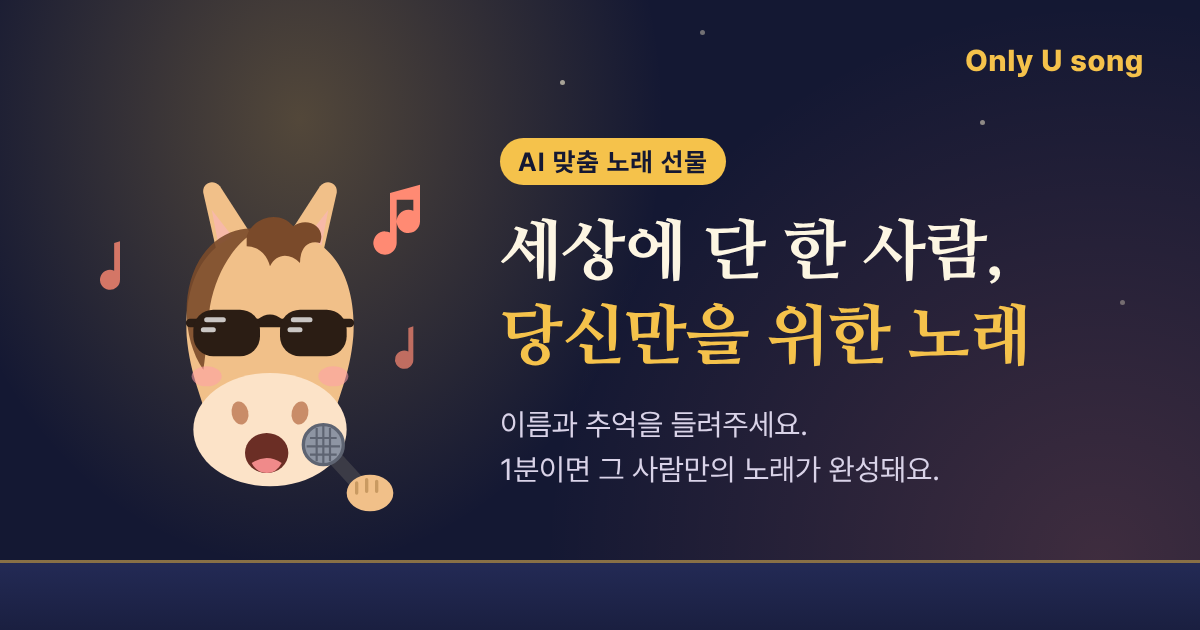
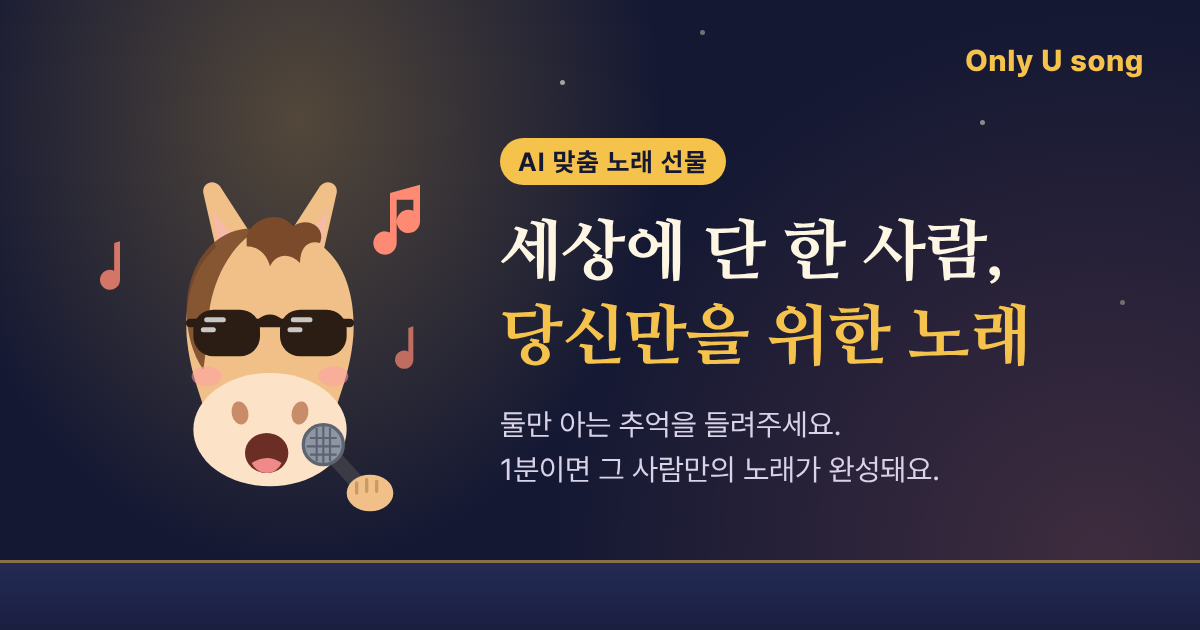
Lead marketing copy with shared memories instead of names
Hero, pricing line, meta/OG descriptions, the KakaoTalk preview image and
the create page description now say "둘만 아는 추억". Order-form fields and
revision rules about names are unchanged.

Claude-Session: https://claude.ai/code/session_01J3WAEMxsaaKJ2MSZrZjvXo

Changed region(s): [[0.4008, 0.6333, 0.7092, 0.6937]]

diff --git a/src/app/layout.tsx b/src/app/layout.tsx
@@ -12,14 +12,14 @@ export const metadata: Metadata = {
   // 다른 페이지는 제목만 정하면 " · Only U song"이 붙는다.
   title: { default: "Only U song — 단 한 사람을 위한 노래", template: "%s · Only U song" },
   description:
-    "엄마·아빠·연인·친구의 이름과 추억을 들려주면 AI가 가사와 노래를 1분 만에 만들어 드려요. 생일·환갑·기념일에 보내는 맞춤 노래 선물, 9,900원부터.",
-  keywords: ["노래 선물", "맞춤 노래", "AI 노래", "이름 넣은 노래", "생일 선물", "부모님 선물", "환갑 선물", "기념일 선물"],
+    "엄마·아빠·연인·친구와 둘만 아는 추억을 들려주면 AI가 가사와 노래를 1분 만에 만들어 드려요. 생일·환갑·기념일에 보내는 맞춤 노래 선물, 9,900원부터.",
+  keywords: ["노래 선물", "맞춤 노래", "AI 노래", "추억 노래", "이름 넣은 노래", "생일 선물", "부모님 선물", "환갑 선물", "기념일 선물"],
   openGraph: {
     type: "website",
     siteName: "Only U song",
     locale: "ko_KR",
     title: "Only U song — 단 한 사람을 위한 노래",
-    description: "이름과 추억을 들려주세요. 1분이면 그 사람만의 노래가 완성돼요.",
+    description: "둘만 아는 추억을 들려주세요. 1분이면 그 사람만의 노래가 완성돼요.",
     images: [{ url: "/og.png", width: 1200, height: 630, alt: "선글라스를 끼고 노래하는 말 캐릭터와 Only U song" }],
   },
   twitter: { card: "summary_large_image" },

diff --git a/src/app/page.tsx b/src/app/page.tsx
@@ -66,7 +66,7 @@ export default function Home() {
             <br />
             <em>당신만을 위한 노래</em>
           </h1>
-          <p>이름과 추억을 들려주세요. 무대 위 가수가 그 사람만을 위한 노래로 불러 드릴게요.</p>
+          <p>둘만 아는 추억을 들려주세요. 무대 위 가수가 그 추억을 그 사람만을 위한 노래로 불러 드릴게요.</p>
           <Link href="/create" className="btn">
             노래 만들기 시작 →
           </Link>
@@ -154,7 +154,7 @@ export default function Home() {
             <h3>노래</h3>
             <div className="price">{formatWon(PRICES.song)}</div>
             <ul className="check-list">
-              <li>이름과 추억을 담은 맞춤 노래 1곡 (약 2분 30초 길이)</li>
+              <li>둘만 아는 추억을 담은 맞춤 노래 1곡 (약 2분 30초 길이)</li>
               <li>무제한 듣기와 가사 보기</li>
               <li>받는 분을 위한 선물 페이지 링크</li>
               <li>수정 1회 무료</li>

diff --git a/src/app/create/layout.tsx b/src/app/create/layout.tsx
@@ -3,7 +3,7 @@ import type { Metadata } from "next";
 // 이야기 쓰기 화면(클라이언트 컴포넌트)의 검색용 제목·설명.
 export const metadata: Metadata = {
   title: "노래 만들기",
-  description: "받는 분의 이름과 추억, 전하고 싶은 말을 적으면 AI가 가사와 노래를 1분 만에 만들어요. 장르와 보컬도 고를 수 있어요.",
+  description: "받는 분과의 추억과 전하고 싶은 말을 적으면 AI가 가사와 노래를 1분 만에 만들어요. 장르와 보컬도 고를 수 있어요.",
   alternates: { canonical: "/create" },
 };
 
